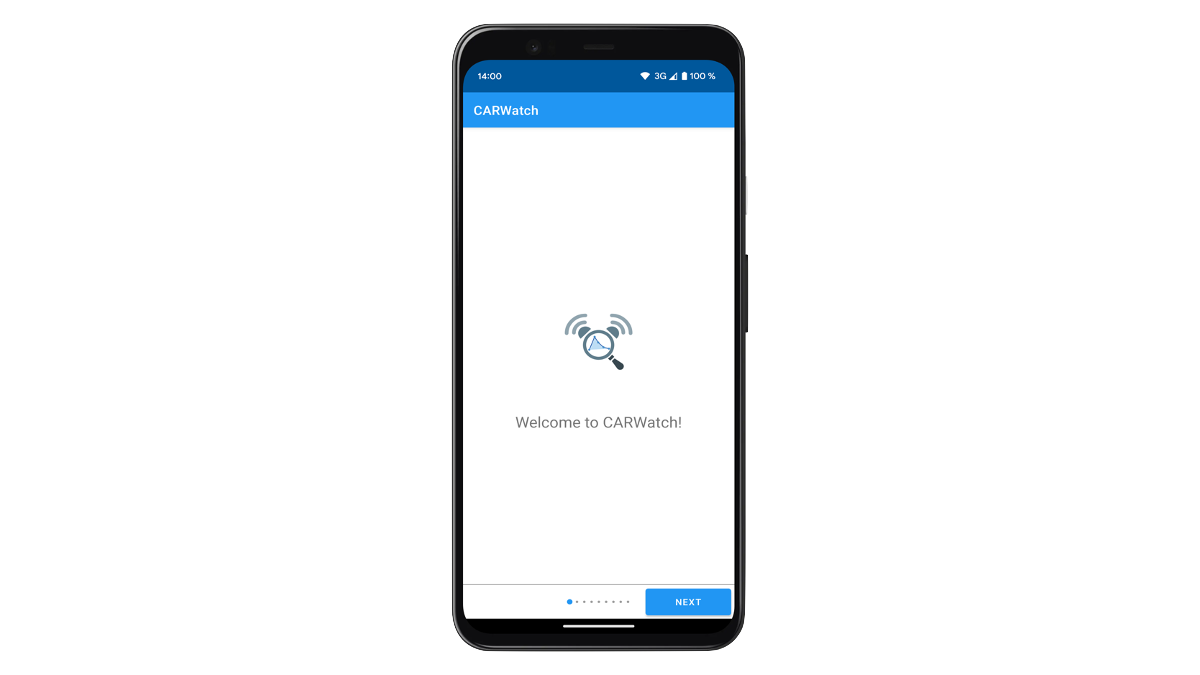
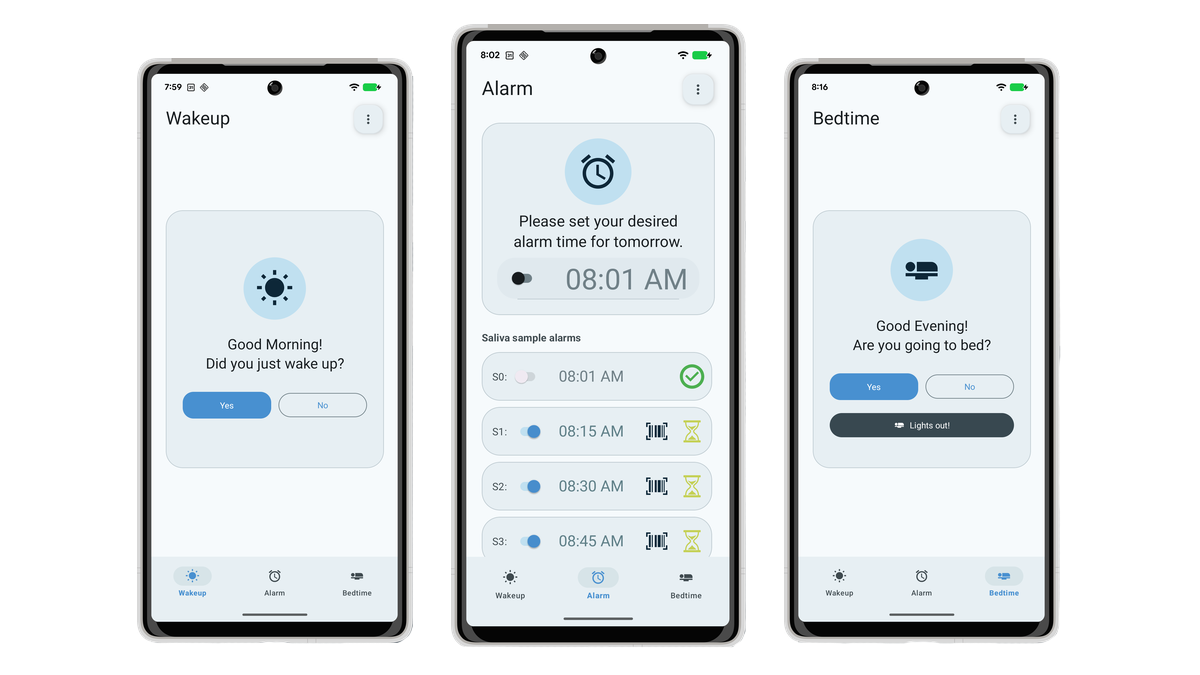
Add Android v3.0.1 news update

Changed region(s): [[0.0925, 0.0311, 0.8942, 0.9644]]

diff --git a/scripts/postprocess_shared.py b/scripts/postprocess_shared.py
@@ -144,6 +144,7 @@ def inject_brand_assets(html: str, site_config: dict | None = None) -> str:
 .news-meta time{{color:var(--text-secondary);font-weight:650;text-transform:none;letter-spacing:0}}
 .news-callout h3{{margin:.15rem 0 .45rem;color:var(--text-primary);font-size:1.35rem;line-height:1.2;letter-spacing:0}}
 .news-callout p{{margin:.45rem 0 1rem;color:var(--text-secondary);line-height:1.6}}
+.news-image{{display:block;width:min(100%,34rem);height:auto;margin:.75rem auto 1rem;background:transparent}}
 .news-link{{display:inline-flex;align-items:center;justify-content:center;border-radius:.4rem;background:var(--accent-primary);color:var(--bg-primary);font-weight:700;text-decoration:none;padding:.68rem .95rem;line-height:1.1}}
 .news-link:hover{{background:var(--accent-hover);color:var(--bg-primary);text-decoration:none}}
 .workflow-steps{{display:grid;gap:1rem;margin-top:1.25rem}}